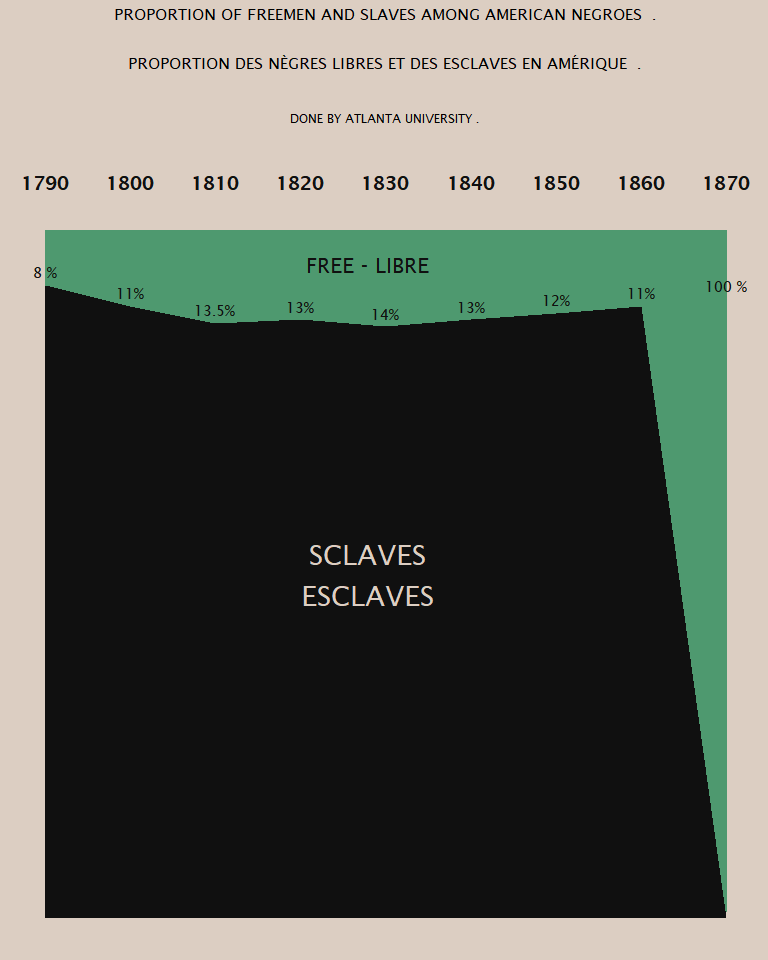
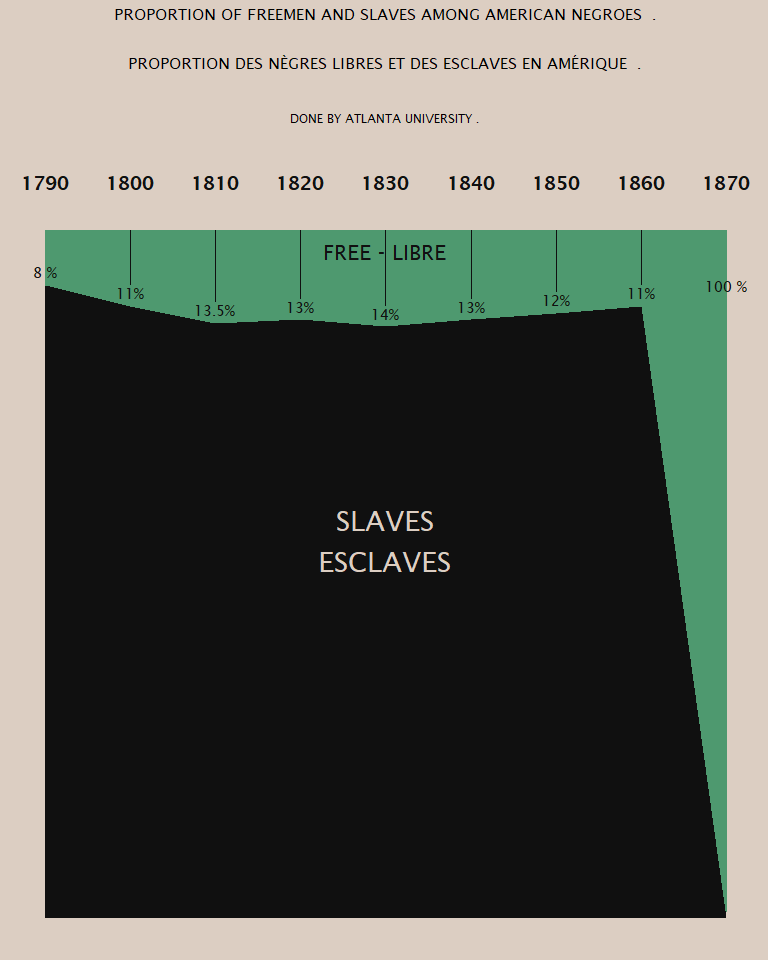
Fix typo, move annotation, add linerange

Changed region(s): [[0.375, 0.5312, 0.5938, 0.6562], [0.375, 0.25, 0.5938, 0.3125]]

diff --git a/2021-02-16 W.E.B. Du Bois Challenge/2021-02-16-W.E.B.-Du-Bois-Challenge.md b/2021-02-16 W.E.B. Du Bois Challenge/2021-02-16-W.E.B.-Du-Bois-Challenge.md
@@ -118,7 +118,7 @@ p <- freed_slaves_long %>%
   theme_challenge_04 +
   scale_fill_manual(values=c("#4e996f", "#101010")) +
   scale_color_manual(values=c("#4e996f", "#101010")) +
-  annotate("text", label = "SCLAVES\nESCLAVES", x = 1828, y = 50, 
+  annotate("text", label = "SLAVES\nESCLAVES", x = 1828, y = 50, 
            color = "#dccec2", family = font, size = 7) +
   annotate("text", label = "FREE - LIBRE", x = 1828, y = 95, 
            color = "#101010", family = font, size = 5.5) +
@@ -141,18 +141,18 @@ p
 <!-- end list -->
 
 ``` r
-p2 <- freed_slaves %>% 
-  ggplot(aes(x = Year, y = Slave)) +
+p2 <- ggplot(data = freed_slaves, aes(x = Year, y = Slave)) +
   geom_rect(aes(xmin = 1790, xmax = 1870, ymin = 1, ymax = 100), color = "#4e996f", fill = "#4e996f") +
-  geom_ribbon(aes(ymin = 0,ymax = predict(loess(Slave ~ Year, span = 0.4))),
-                alpha = 1,fill = "#101010") +
+  geom_ribbon( aes(ymin = 0,ymax = predict(loess(Slave ~ Year, span = 0.4))),
+               alpha = 1,fill = "#101010") +
+  geom_linerange(data = freed_slaves %>%  filter(Year %nin% c(1790, 1870)),aes(x = Year, ymin = predict(loess(Slave ~ Year, span = 0.4)) +3, ymax = 100), color ="#101010", fill = "#101010", width = 0.1) +
   scale_x_continuous(breaks = c(unique(freed_slaves$Year)), limits = c(1790, 1870), position= "top") + 
   labs(title = "PROPORTION OF FREEMEN AND SLAVES AMONG AMERICAN NEGROES  .\n\n\nPROPORTION DES NÈGRES LIBRES ET DES ESCLAVES EN AMÉRIQUE  .\n\n", 
        subtitle = "DONE BY ATLANTA UNIVERSITY .\n\n\n")+
   theme_challenge_04 +
-  annotate("text", label = "SCLAVES\nESCLAVES", x = 1828, y = 50, 
+  annotate("text", label = "SLAVES\nESCLAVES", x = 1830, y = 55, 
            color = "#dccec2", family = font, size = 7.5) +
-  annotate("text", label = "FREE - LIBRE", x = 1828, y = 95, 
+  annotate("text", label = "FREE - LIBRE", x = 1830, y = 97, 
            color = "#101010", family = font, size = 5.5) +
   geom_text(data = freed_slaves_long %>%  filter(Year %nin% c(1790, 1870)),
             aes(label = paste0(Percentage, "%"), y = 102-Percentage),
@@ -161,9 +161,11 @@ p2 <- freed_slaves %>%
            color = "#101010", family = font, size = 4) +
   annotate("text", label = "8 %", x = 1790, y = 94,
            color = "#101010", family = font, size = 4) 
+```
 
+    ## Warning: Ignoring unknown parameters: fill, width
 
-
+``` r
 p2
 ```
 
@@ -181,6 +183,21 @@ p2
 
     ## Warning in simpleLoess(y, x, w, span, degree = degree, parametric =
     ## parametric, : There are other near singularities as well. 416.16
+
+    ## Warning in simpleLoess(y, x, w, span, degree = degree, parametric =
+    ## parametric, : span too small. fewer data values than degrees of freedom.
+
+    ## Warning in simpleLoess(y, x, w, span, degree = degree, parametric =
+    ## parametric, : pseudoinverse used at 1799.7
+
+    ## Warning in simpleLoess(y, x, w, span, degree = degree, parametric =
+    ## parametric, : neighborhood radius 10.3
+
+    ## Warning in simpleLoess(y, x, w, span, degree = degree, parametric =
+    ## parametric, : reciprocal condition number 0
+
+    ## Warning in simpleLoess(y, x, w, span, degree = degree, parametric =
+    ## parametric, : There are other near singularities as well. 106.09
 
 <img src="2021-02-16-W.E.B.-Du-Bois-Challenge_files/figure-gfm/fig2-1.png" style="display: block; margin: auto;" />
 
@@ -209,6 +226,21 @@ ggsave(p2, filename = "challenge_04.png", units = "cm", width = 12, height = 16,
 
     ## Warning in simpleLoess(y, x, w, span, degree = degree, parametric =
     ## parametric, : There are other near singularities as well. 416.16
+
+    ## Warning in simpleLoess(y, x, w, span, degree = degree, parametric =
+    ## parametric, : span too small. fewer data values than degrees of freedom.
+
+    ## Warning in simpleLoess(y, x, w, span, degree = degree, parametric =
+    ## parametric, : pseudoinverse used at 1799.7
+
+    ## Warning in simpleLoess(y, x, w, span, degree = degree, parametric =
+    ## parametric, : neighborhood radius 10.3
+
+    ## Warning in simpleLoess(y, x, w, span, degree = degree, parametric =
+    ## parametric, : reciprocal condition number 0
+
+    ## Warning in simpleLoess(y, x, w, span, degree = degree, parametric =
+    ## parametric, : There are other near singularities as well. 106.09
 
 ``` r
 sessionInfo()
